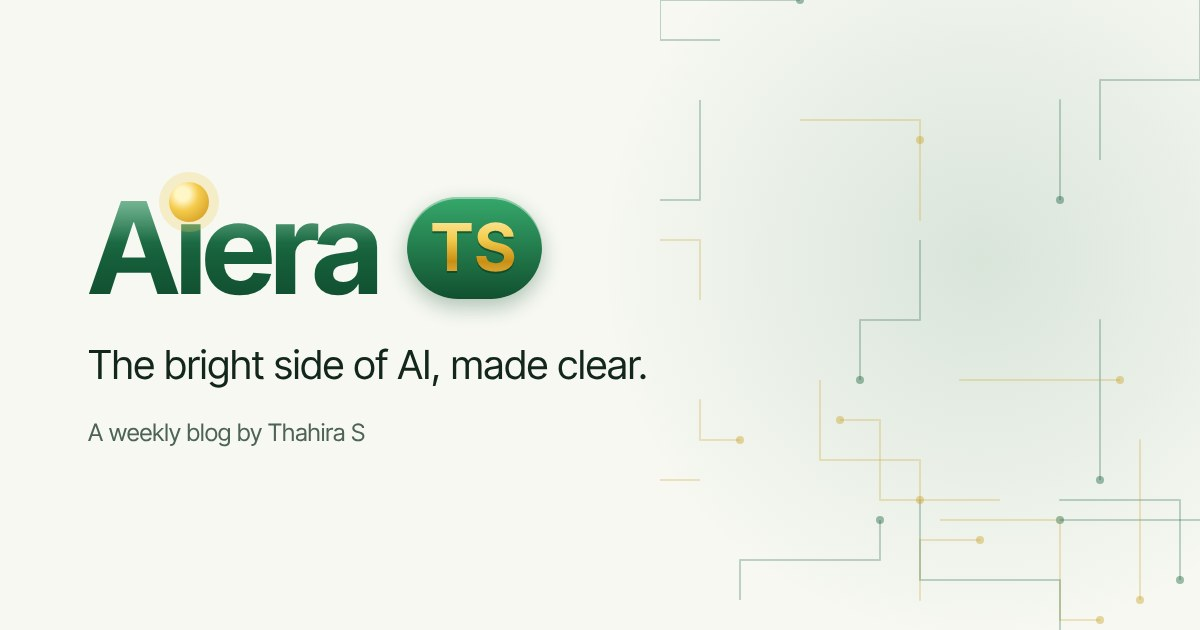
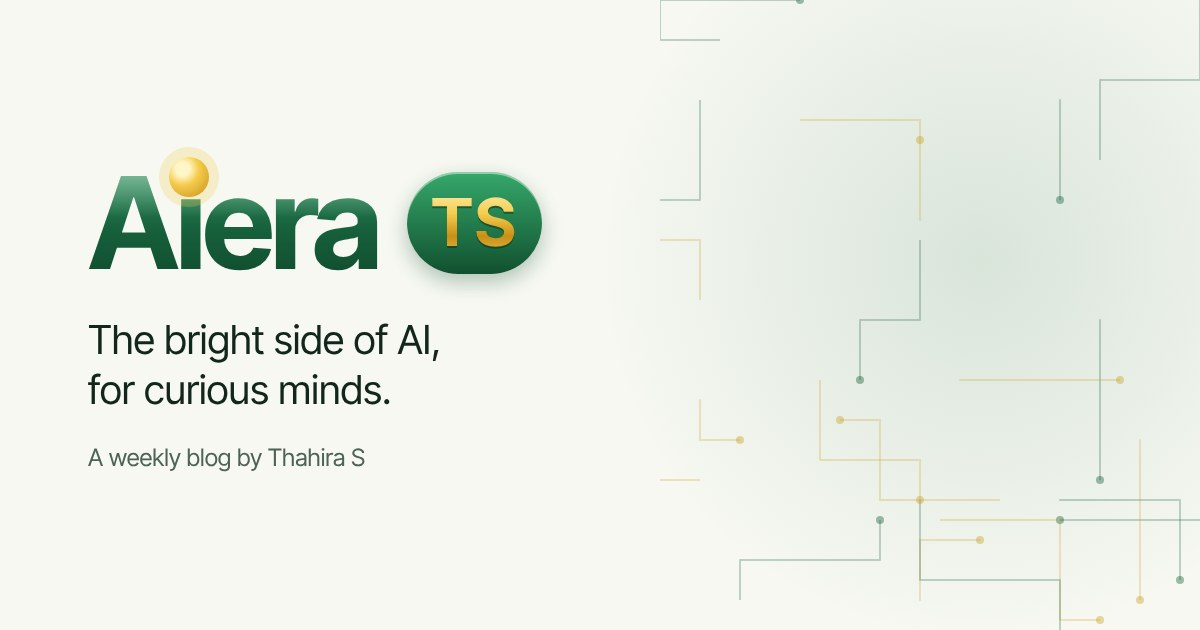
Tagline: The bright side of AI, for curious minds.
Claude-Session: https://claude.ai/code/session_011joVF6bbyZDhpZpCEdrVDq

Changed region(s): [[0.0617, 0.2111, 0.4625, 0.5127], [0.0617, 0.5127, 0.555, 0.754]]

diff --git a/src/data/site.ts b/src/data/site.ts
@@ -1,7 +1,7 @@
 export const SITE = {
   name: 'AIERA-TS',
   url: 'https://aiera-ts.com',
-  tagline: 'The bright side of AI, made clear.',
+  tagline: 'The bright side of AI, for curious minds.',
   description:
     'Curious about AI? Every Thursday, AIERA-TS shares hopeful real-world stories and jargon-free guides to how AI works. No tech background needed.',
   email: 'aiera.blog@gmail.com',
